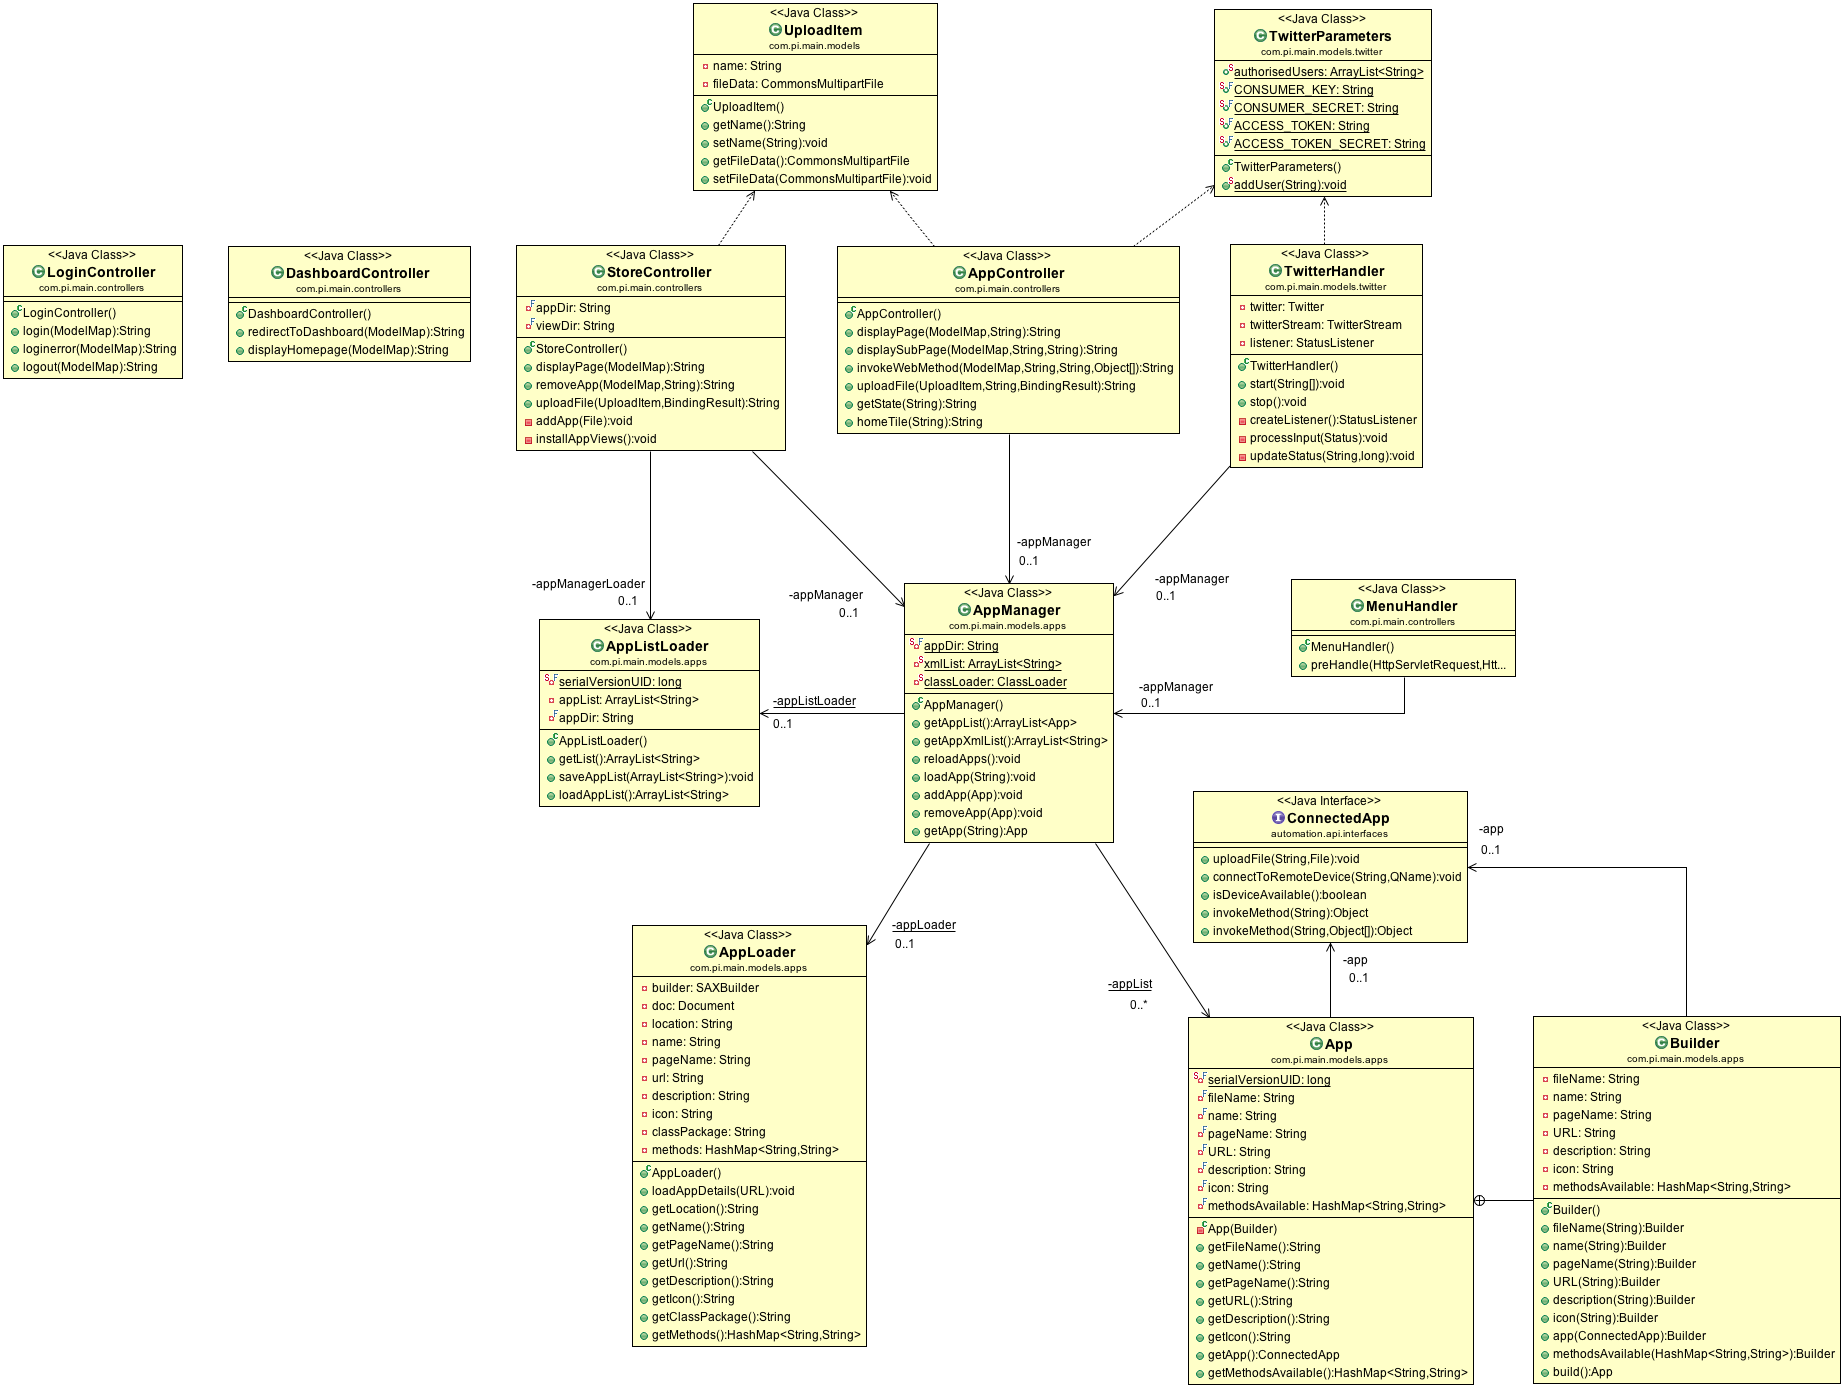
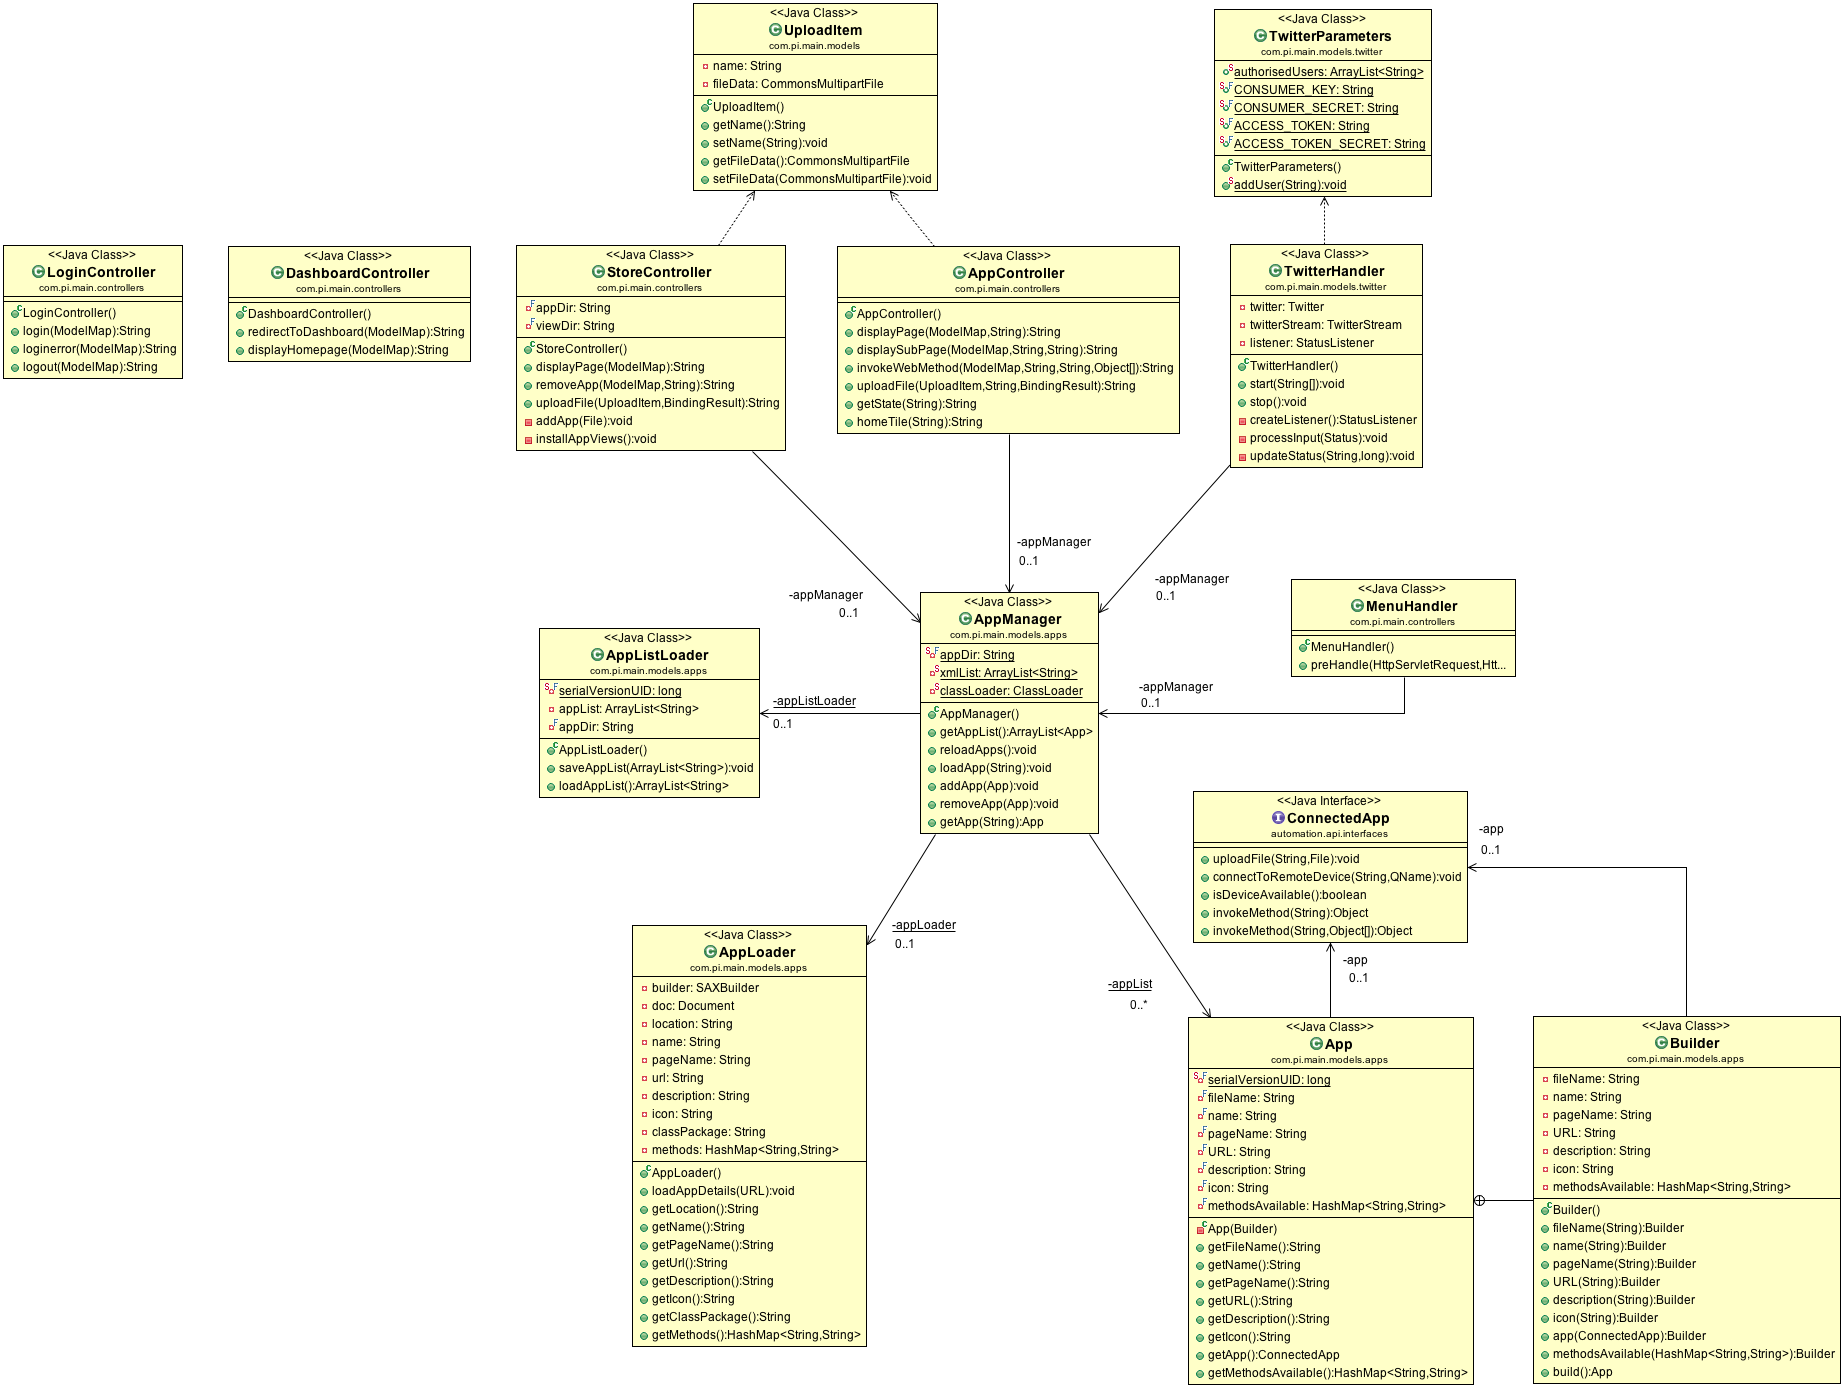
Moved serialisation of app manager to inside the manager itself instead of at the store controller

Changed region(s): [[0.4637, 0.4027, 0.6182, 0.6196], [0.2782, 0.4027, 0.4328, 0.5886]]

diff --git a/src/main/java/com/pi/main/controllers/StoreController.java b/src/main/java/com/pi/main/controllers/StoreController.java
@@ -15,12 +15,10 @@ import org.springframework.web.bind.annotation.RequestParam;
 import com.pi.main.models.UploadItem;
 import com.pi.main.models.apps.App;
 import com.pi.main.models.apps.AppManager;
-import com.pi.main.models.apps.AppListLoader;
 
 @Controller
 public class StoreController {
 	
-	private AppListLoader appManagerLoader = new AppListLoader();
 	private AppManager appManager = new AppManager();
 	private final String appDir = "/home/pi/FYP/apps/";
 	private final String viewDir = "/home/pi/FYP/apache-tomcat-7.0.35/webapps/ROOT/WEB-INF/pages/apps/";
@@ -47,9 +45,6 @@ public class StoreController {
 		appXML.delete();
 		appView.delete();
 		
-		// Save appmanager state
-		appManagerLoader.saveAppList(appManager.getAppXmlList());
-		
 		//TODO add modal message
 		return "redirect:/store";
 	}
@@ -66,10 +61,6 @@ public class StoreController {
 		}  catch (Exception e) {
 			return "redirect:/error";
 		}
-		
-		// Save app manager state
-		appManagerLoader.saveAppList(appManager.getAppXmlList());
-	    
 		return "redirect:/dashboard";
 	}
 	

diff --git a/src/main/java/com/pi/main/models/apps/AppListLoader.java b/src/main/java/com/pi/main/models/apps/AppListLoader.java
@@ -14,10 +14,6 @@ public class AppListLoader implements Serializable {
 	private ArrayList<String> appList;
 	private final transient String appDir = "/home/pi/FYP/apps/";
 	
-	public ArrayList<String> getList() {
-		return appList;
-	}
-	
 	public void saveAppList(ArrayList<String> appList) {
 		try {
 			this.appList = appList;
@@ -32,14 +28,14 @@ public class AppListLoader implements Serializable {
 	}
 	
 	public ArrayList<String> loadAppList() {
-		AppListLoader appList = null;
+		AppListLoader appListLoader = null;
 		try {
 			FileInputStream fileIn = new FileInputStream(appDir + "appList.ser");
 			ObjectInputStream in = new ObjectInputStream(fileIn);
-			appList = (AppListLoader) in.readObject();
+			appListLoader = (AppListLoader) in.readObject();
 			in.close();
 			fileIn.close();
-			return appList.getList();
+			return appListLoader.appList;
 		} catch (IOException | ClassNotFoundException e) {
 			e.printStackTrace();
 			return new ArrayList<String>();

diff --git a/src/main/java/com/pi/main/models/apps/AppManager.java b/src/main/java/com/pi/main/models/apps/AppManager.java
@@ -27,10 +27,6 @@ public class AppManager {
 		return appList;
 	}
 	
-	public ArrayList<String> getAppXmlList() {
-		return xmlList;
-	}
-	
 	public void reloadApps() {
 		for (String xmlFile : xmlList) {
 			try {
@@ -58,6 +54,7 @@ public class AppManager {
 			.app((ConnectedApp) classLoader.loadClass(appLoader.getClassPackage()).newInstance())
 			.methodsAvailable(appLoader.getMethods())
 			.build());
+		appListLoader.saveAppList(xmlList);
 	}
 	
 	public void addApp(App app) {
@@ -69,6 +66,7 @@ public class AppManager {
 	public void removeApp(App app) {
 		appList.remove(app);
 		xmlList.remove(app.getFileName().replace("jar", "xml"));
+		appListLoader.saveAppList(xmlList);
 	}
 	
 	public App getApp(String appURL) {
